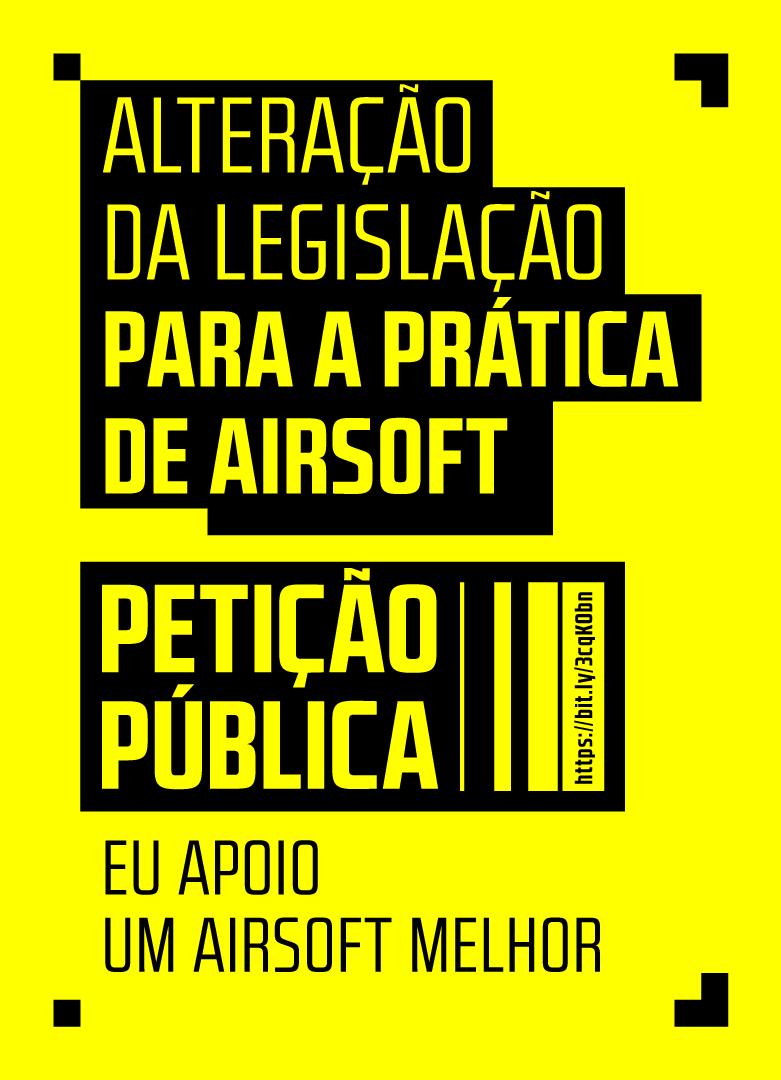
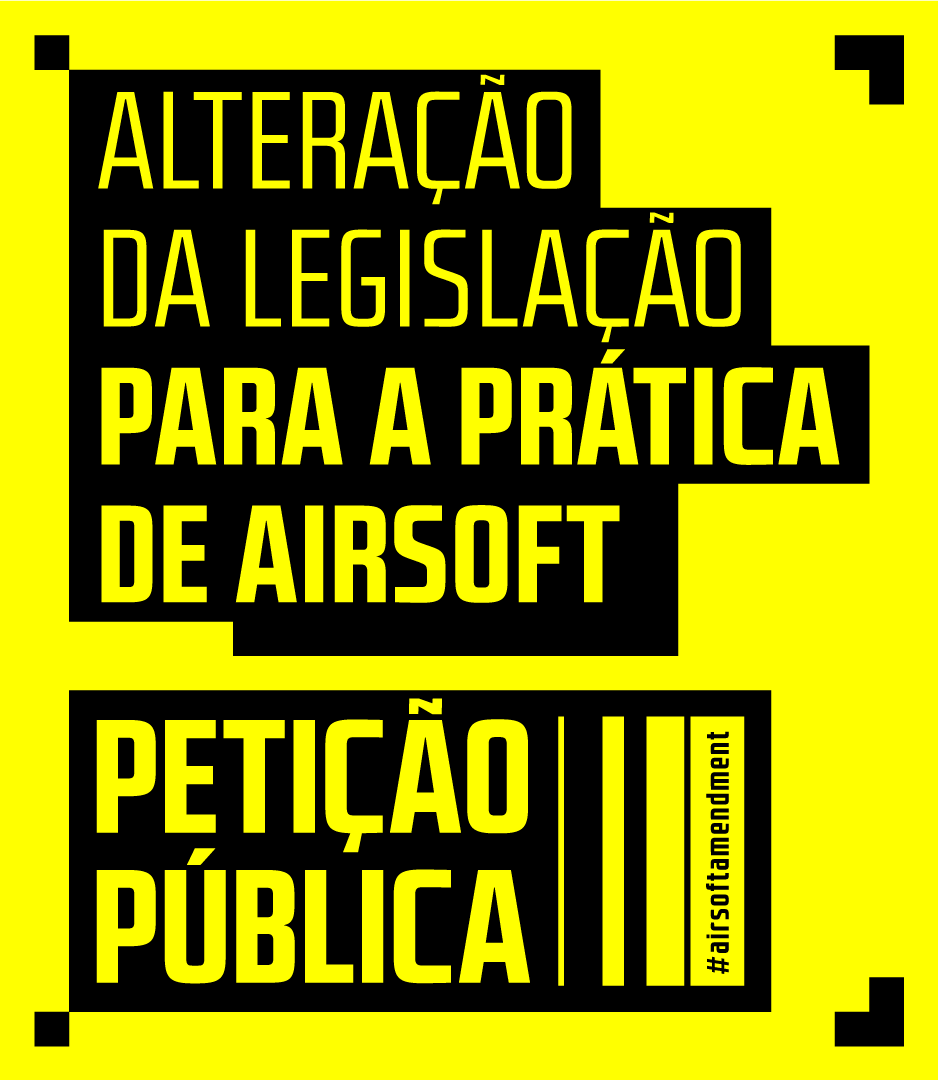
mobile

diff --git a/src/pages/index.js b/src/pages/index.js
@@ -14,6 +14,7 @@ const IndexPage = () => (
     <Seo title="Airsoft Petição" />
     <div className="container">
       <StaticImage
+        className='desktop-image'
         src="../images/peticao.png"
         width={1440}
         quality={95}
@@ -21,14 +22,26 @@ const IndexPage = () => (
         alt="landing page image"
         style={{ height: '70%', padding: '20px 0', boxSizing: 'content-box' }}
       />
-      <h1>Ainda não assinaste a petição?</h1>
-      <a className='link' target="_blank" href="https://peticaopublica.com/pview.aspx?pi=airsoftamendment">
-        <div className='flex-link'>
-          <M4 className='svg'/>
-          <h2>De que estás à espera</h2>
-          <AK className='svg inverted'/>
-        </div>
-      </a>
+      <StaticImage
+        className='mobile-image'
+        src="../images/peticao-mobile.png"
+        width={350}
+        quality={95}
+        objectFit={'cover'}
+        formats={["AUTO", "WEBP", "AVIF"]}
+        alt="landing page image"
+        style={{ padding: '50px 50px', boxSizing: 'content-box' }}
+      />
+      <div className="description-container">
+        <h1>Apoia um airsoft melhor</h1>
+        <a className='link' target="_blank" href="https://peticaopublica.com/pview.aspx?pi=airsoftamendment">
+          <div className='flex-link'>
+            {/*<M4 className='svg'/>*/}
+            <h2>ASSINA A PETIÇÃO</h2>
+            {/*<AK className='svg inverted'/>*/}
+          </div>
+        </a>
+      </div>
     </div>
   </Layout>
 )

diff --git a/src/pages/index.scss b/src/pages/index.scss
@@ -5,9 +5,33 @@
   height: 85vh;
   margin: auto;
   text-align: center;
+  @media only screen and (max-width: 425px) {
+    height: 100%;
+    display: flex;
+    flex-direction: column;
+    align-items: center;
+    justify-content: center;
+  }
+  .desktop-image {
+    margin-bottom: 20px;
+    @media only screen and (max-width: 425px) {
+      display: none;
+    }
+  }
+  .mobile-image {
+    margin-bottom: 50px;
+    @media only screen and (min-width: 426px) {
+      display: none;
+    }
+  }
   h1 {
     font-family: 'Rene Bieder Bold';
     font-size: 3rem;
+    @media only screen and (max-width: 425px) {
+      padding: 0 10px;
+      font-size: 2rem;
+      margin-bottom: 0;
+    }
   }
   h2 {
     font-family: 'Rene Bieder Medium';
@@ -17,11 +41,17 @@
   }
   .link {
     display: inline-block;
+    text-decoration-color: black;
+    @media only screen and (max-width: 425px) {
+      padding: 20px 0;
+    }
     .flex-link {
       display: flex;
       flex-direction: row;
       align-content: center;
       justify-content: center;
+      color: black;
+      text-decoration-color: black;
       &:hover  {
         .svg {
           cursor: pointer;
